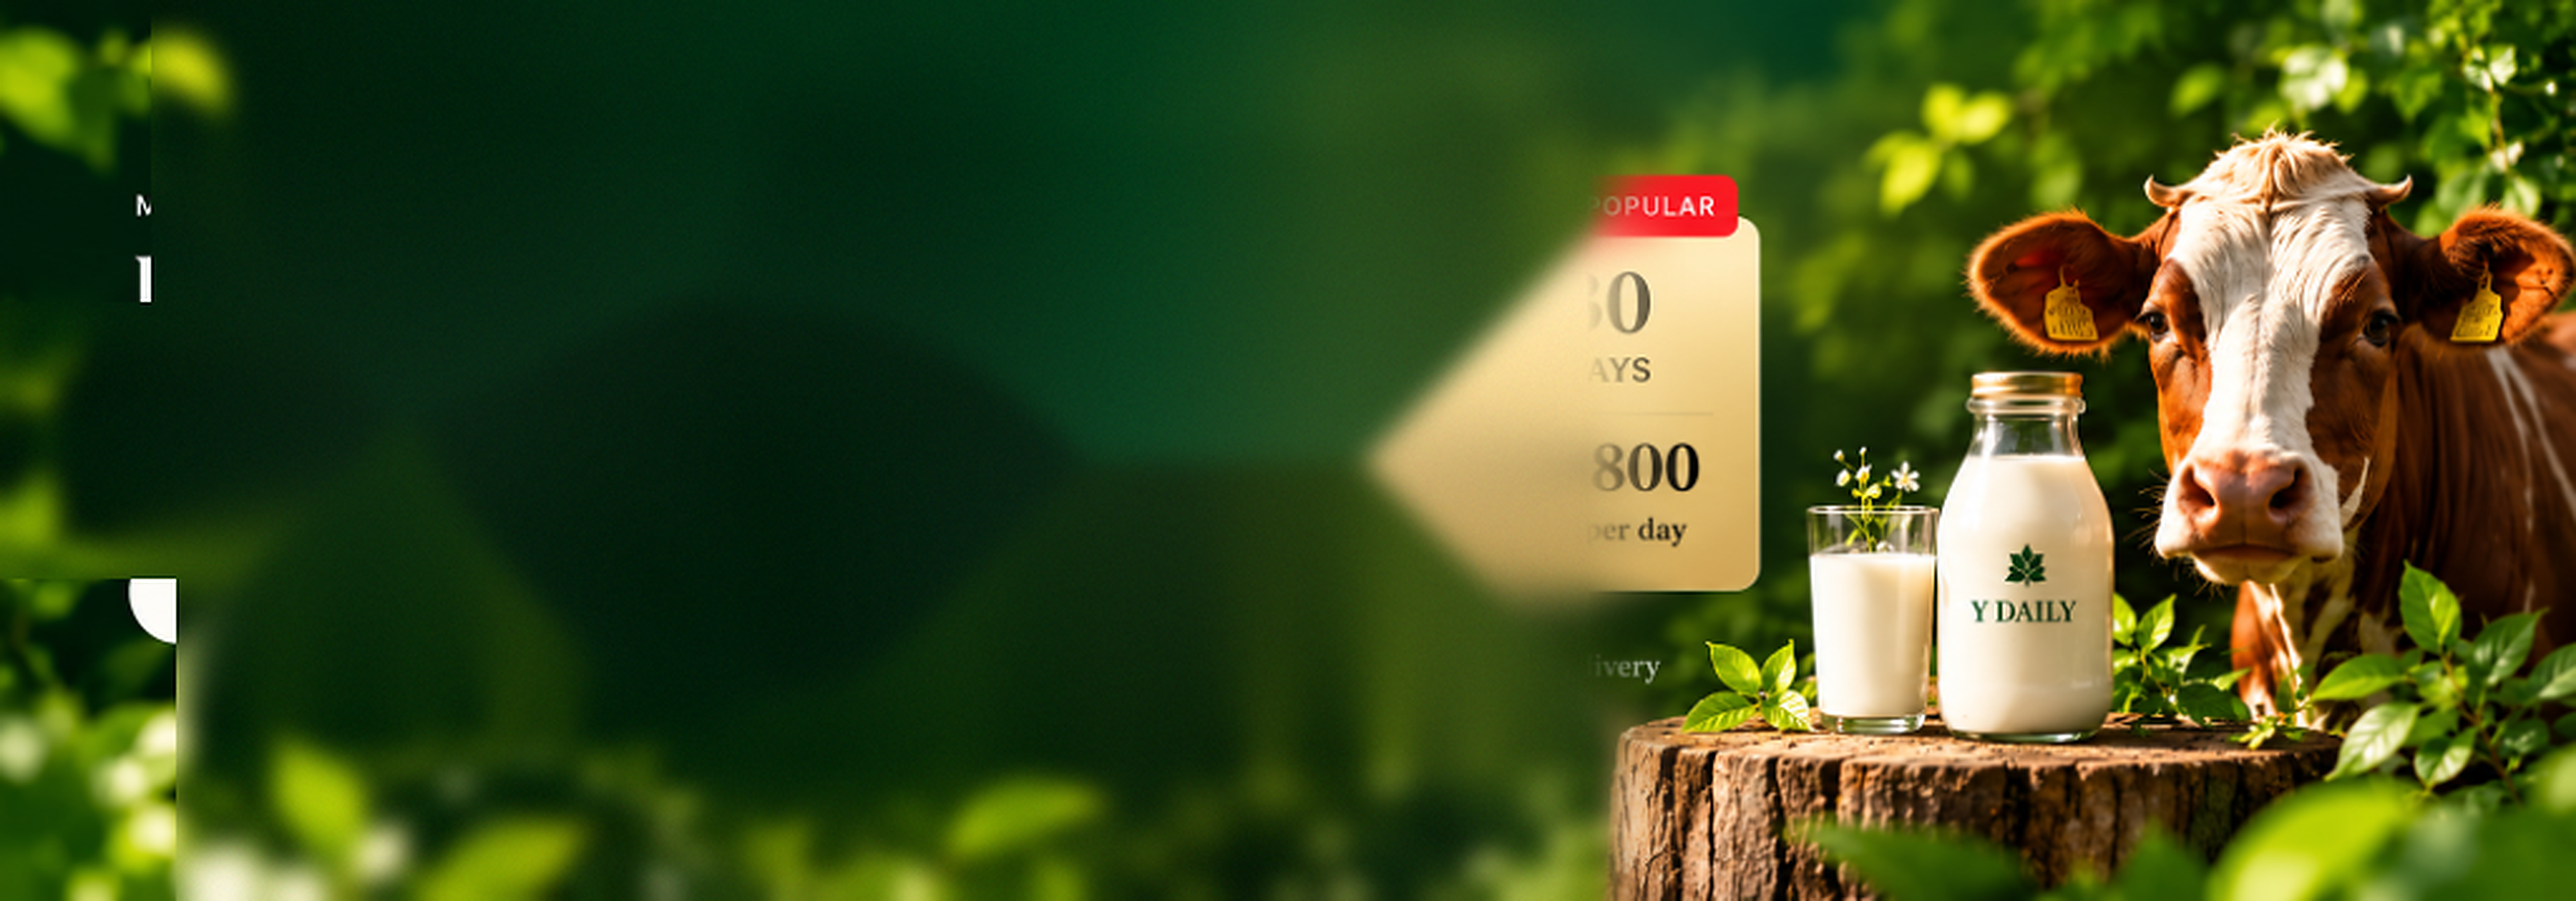
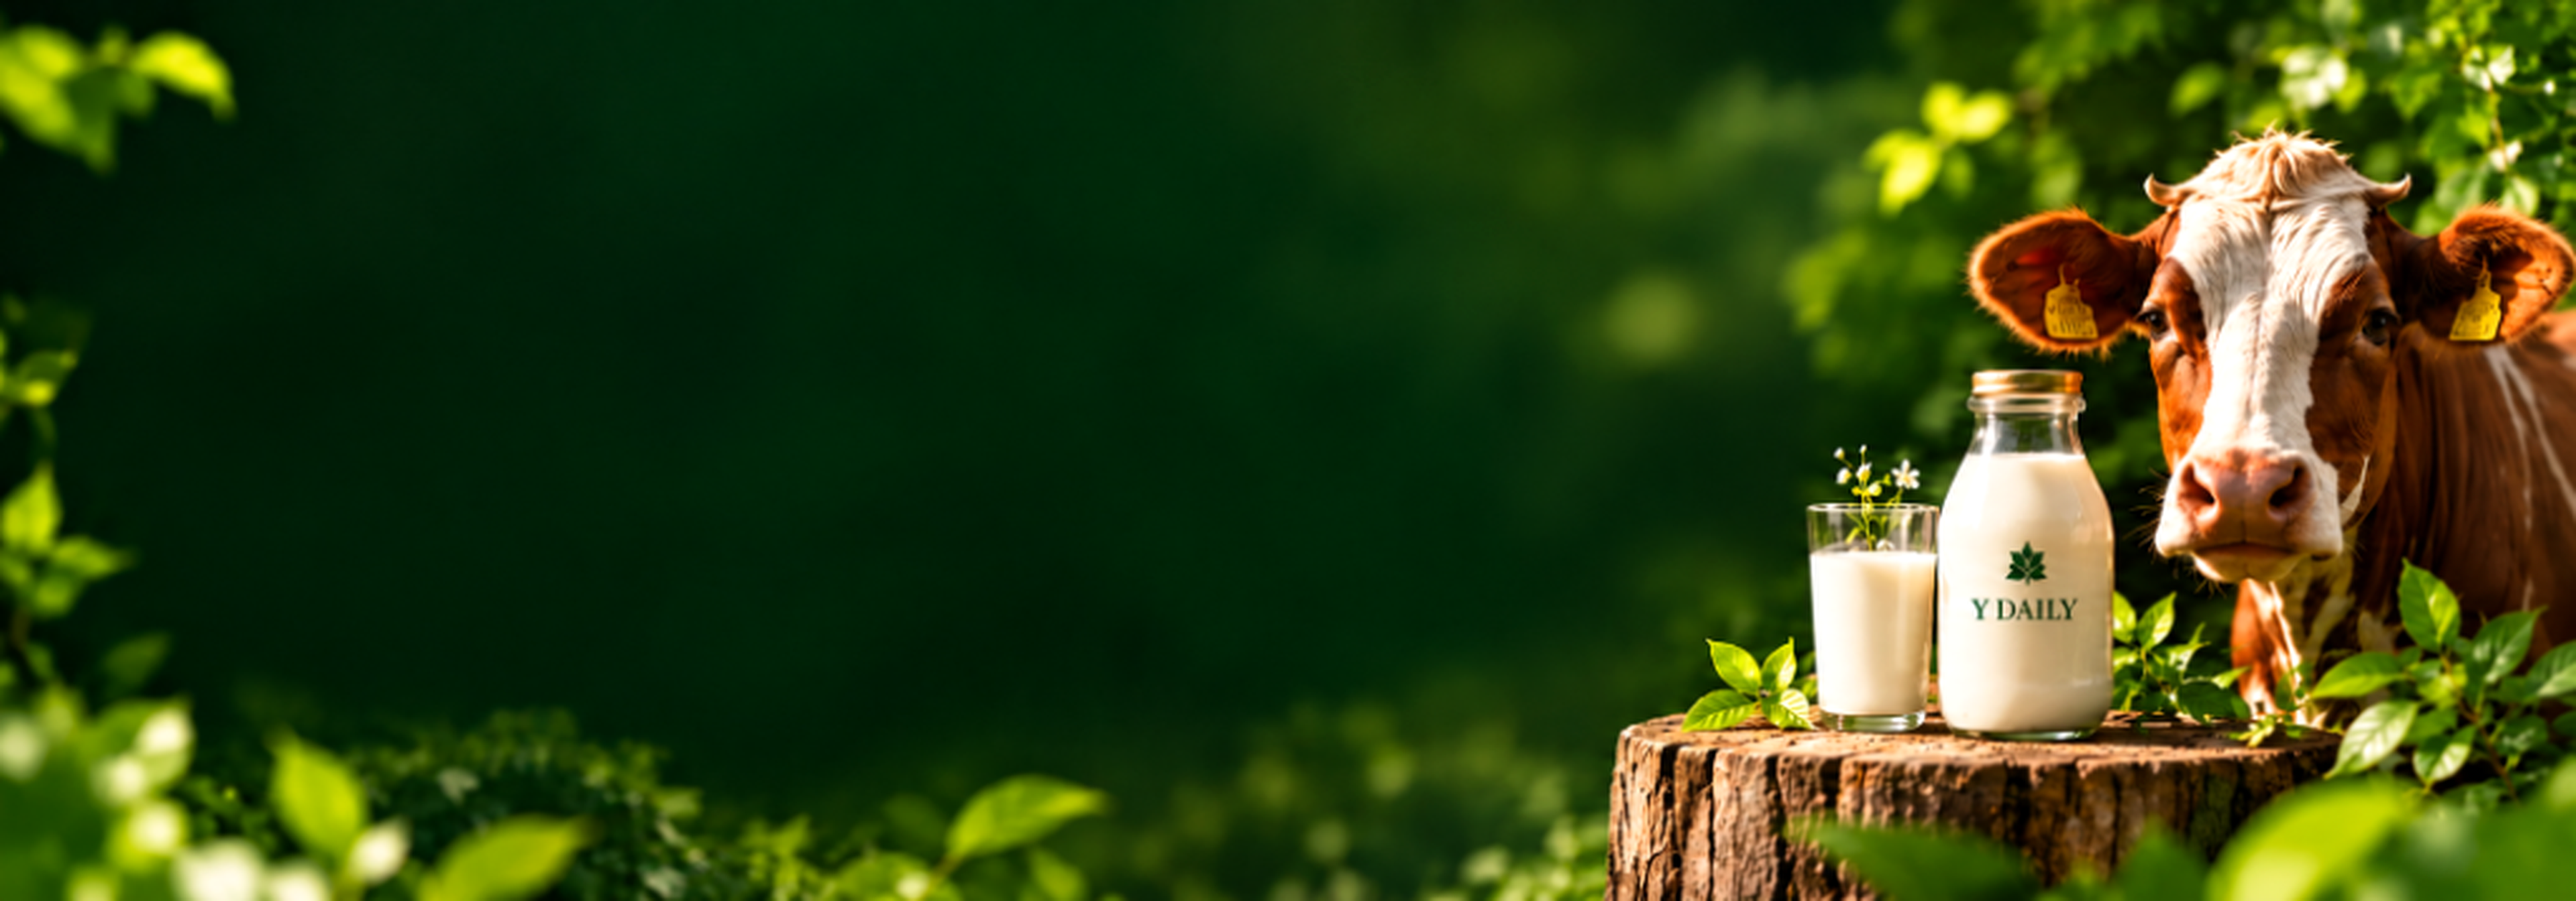
feat: replace milk subscription background with pristine 4K plate and refine lighting

diff --git a/src/components/MilkSubscriptionBanner.css b/src/components/MilkSubscriptionBanner.css
@@ -37,21 +37,20 @@
   inset: 0;
   background: linear-gradient(
     90deg,
-    rgba(6, 28, 12, 0.95) 0%,
-    rgba(6, 28, 12, 0.82) 45%,
-    rgba(6, 28, 12, 0.4) 70%,
-    transparent 100%
+    rgba(6, 28, 12, 0.4) 0%,
+    rgba(6, 28, 12, 0.15) 35%,
+    transparent 60%
   );
   pointer-events: none;
 }
 
-@media (max-width: 768px) {
+@media (max-width: 1024px) {
   .milk-sub-mobile-gradient {
     background: linear-gradient(
       180deg,
-      rgba(6, 28, 12, 0.92) 0%,
-      rgba(6, 28, 12, 0.85) 60%,
-      rgba(6, 28, 12, 0.65) 100%
+      rgba(6, 28, 12, 0.90) 0%,
+      rgba(6, 28, 12, 0.82) 55%,
+      rgba(6, 28, 12, 0.6) 100%
     );
   }
 }
